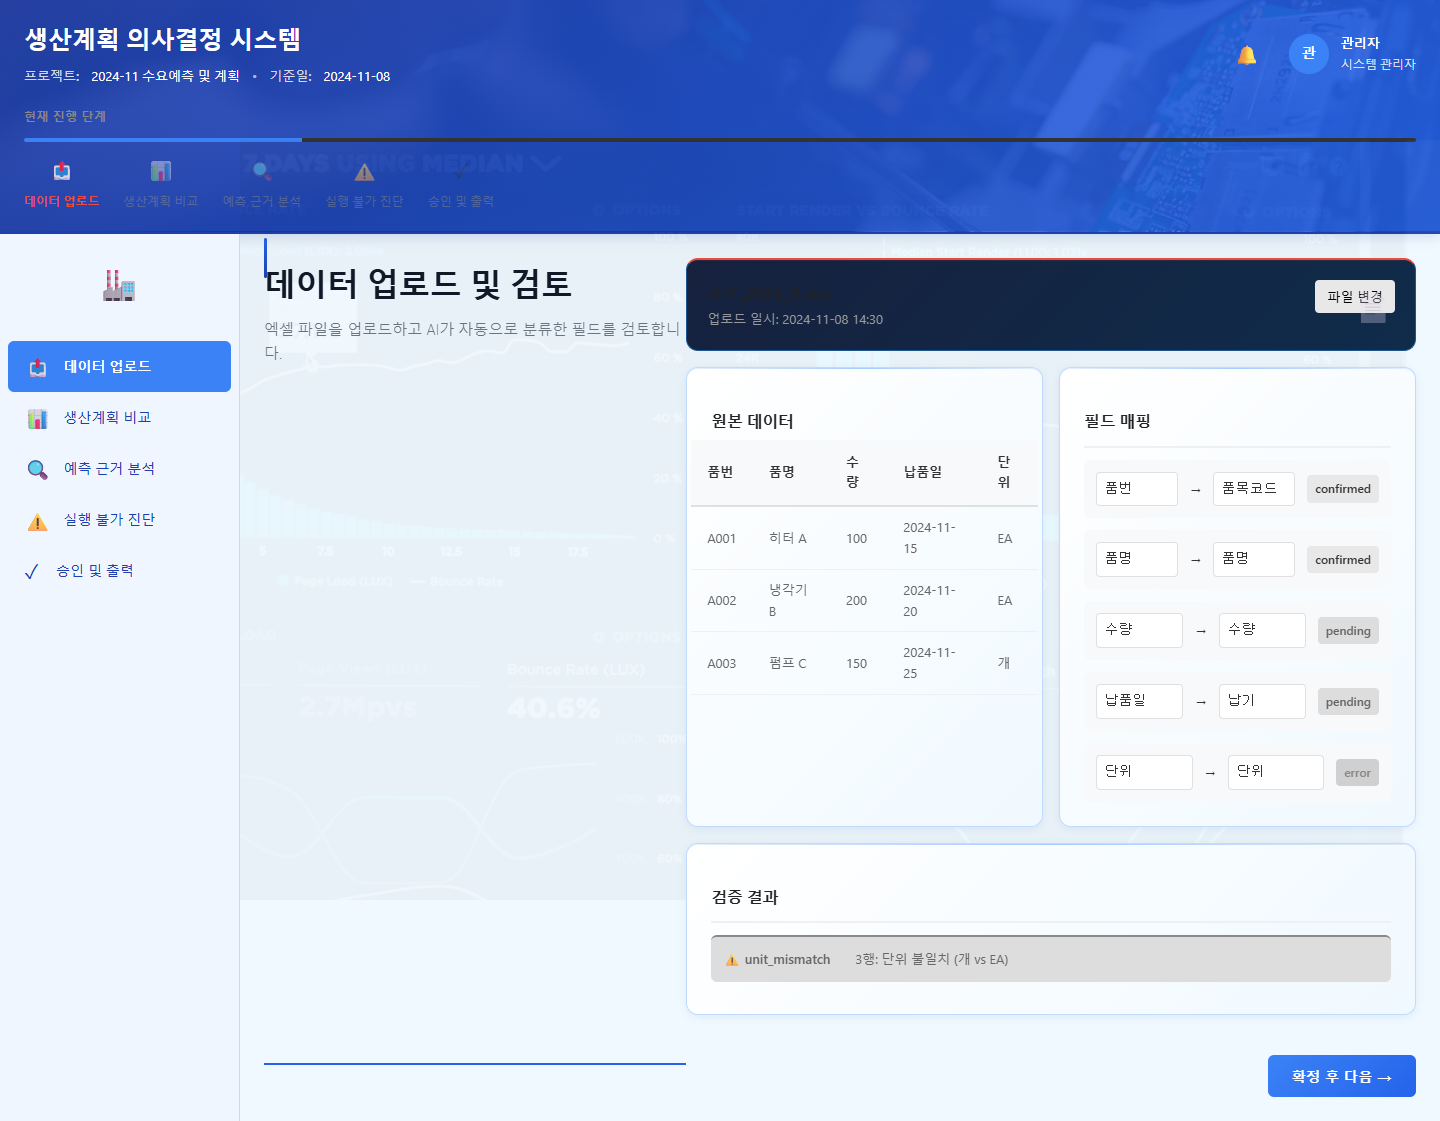
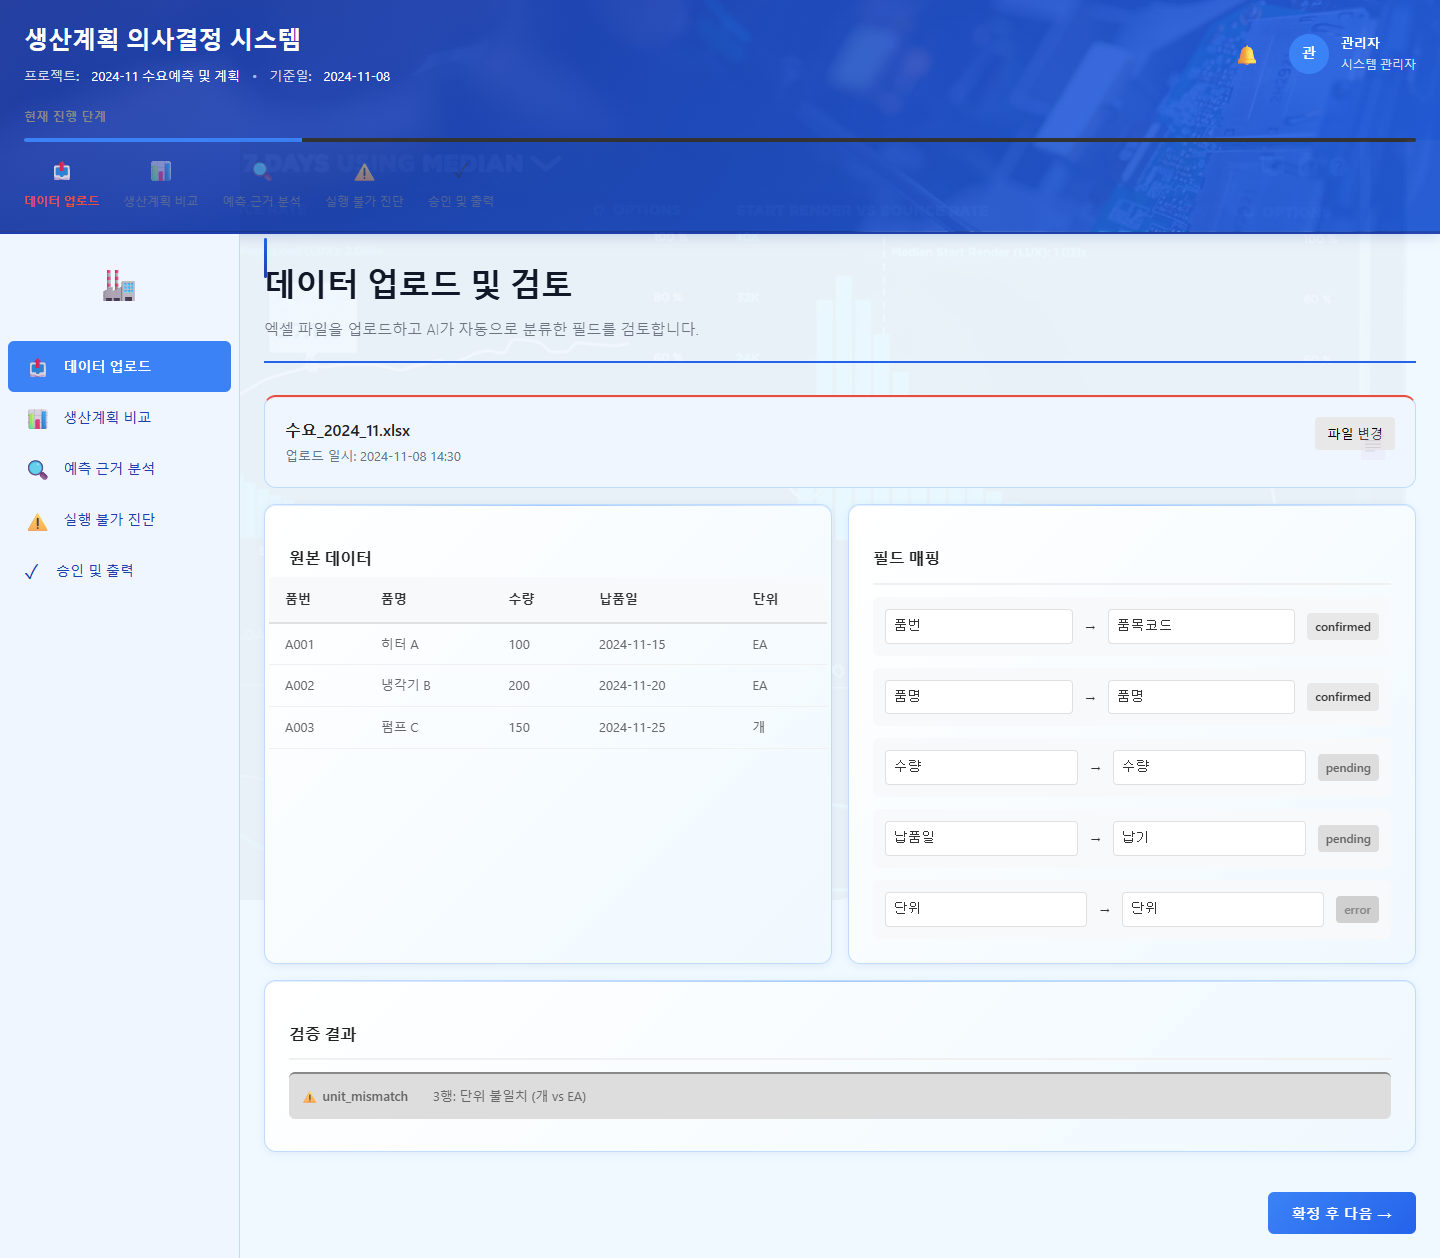
fix: Restore vertical screen layout and legible text; refresh screenshots

diff --git a/src/styles/production.css b/src/styles/production.css
@@ -1,6 +1,7 @@
 /* Production System Styles */
 
 .screen {
+  display: block;
   max-width: 1400px;
   margin: 0 auto;
   position: relative;
@@ -180,10 +181,10 @@
 }
 
 .file-info-card {
-  background: linear-gradient(135deg, #16213e 0%, #0f2c4a 100%);
+  background: #eff6ff;
   padding: 20px;
   border-radius: 12px;
-  border: 1px solid #1a5490;
+  border: 1px solid #bfdbfe;
   border-top: 2px solid #e74c3c;
   position: relative;
   box-shadow: inset 0 1px 0 rgba(231, 76, 60, 0.1);
@@ -213,7 +214,7 @@
 
 .file-date {
   font-size: 13px;
-  color: #999;
+  color: #64748b;
   margin: 0;
 }
 
@@ -491,7 +492,7 @@
   display: block;
   font-size: 18px;
   font-weight: 700;
-  color: #fff;
+  color: #222;
 }
 
 /* Plans Container */
@@ -553,7 +554,7 @@
 .plan-header h3 {
   font-size: 18px;
   font-weight: 700;
-  color: #fff;
+  color: #222;
   margin: 0 0 4px 0;
   position: relative;
   z-index: 1;
@@ -561,7 +562,7 @@
 
 .plan-subtitle {
   font-size: 13px;
-  color: #aaa;
+  color: #666;
   margin: 0 0 20px 0;
   position: relative;
   z-index: 1;
@@ -1359,4 +1360,8 @@
   color: #999;
   font-size: 13px;
   padding: 24px;
+}
+
+.screen .card {
+  max-width: none;
 }
